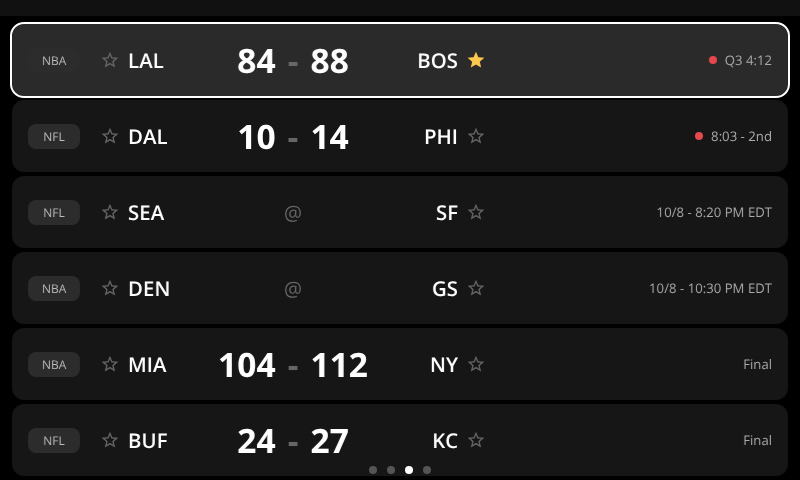
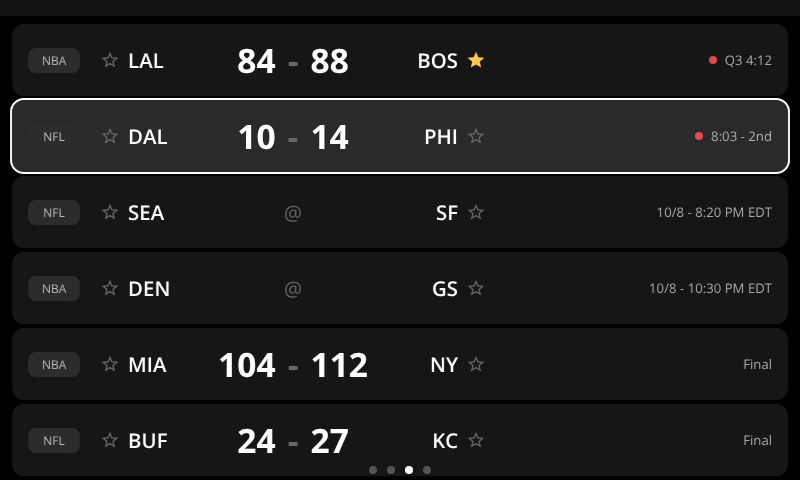
fix(client): dial ignores input under the Menu and follows reordered rows
Reviewer findings: Enter or a wheel turn while the Menu is open also
toggled the highlighted game, and the dial highlight stayed on an index
after a favorite reordered the list. useListNav now ignores input while
the app is blurred and can follow rows by key. Also: upper-case ESPN
abbreviations so team keys validate, keep the pending map stable across
unrelated pushes, and test the feed registry decorator.

Claude-Session: https://claude.ai/code/session_01Pw9chw57BBpXb95BjANYMP

Changed region(s): [[0.0, 0.1875, 1.0, 0.375], [0.0, 0.0312, 1.0, 0.0625]]

diff --git a/client/src/hooks/useListNav.ts b/client/src/hooks/useListNav.ts
@@ -1,27 +1,61 @@
-import { useEffect, useRef, useState } from 'react'
+import { useContext, useEffect, useRef, useState } from 'react'
+
+import { AppBlurContext } from '@/contexts/AppBlurContext.tsx'
 
 const WHEEL_THRESHOLD = 40
 
 // Dial turn moves a highlight, dial press activates it. Only listens while
-// the tab is active.
+// the tab is active and no overlay (e.g. the Menu) has blurred the app.
+// Pass `keys` (one per row) to keep the highlight on the same row when the
+// list reorders.
 export function useListNav(
   count: number,
   active: boolean,
-  onActivate?: (index: number) => void
+  onActivate?: (index: number) => void,
+  keys?: string[]
 ) {
   const [index, setIndex] = useState(0)
   const accumulated = useRef(0)
   const activateRef = useRef(onActivate)
   activateRef.current = onActivate
 
+  const { blurred } = useContext(AppBlurContext)
+  const blurredRef = useRef(blurred)
+  blurredRef.current = blurred
+
+  const keysRef = useRef(keys)
+  keysRef.current = keys
+  const highlightedKey = useRef<string | null>(null)
+  const keysSignature = keys?.join('\n')
+
   useEffect(() => {
     if (index > 0 && index >= count) setIndex(Math.max(0, count - 1))
   }, [count, index])
+
+  // The user moved the highlight: remember which row it is on.
+  useEffect(() => {
+    highlightedKey.current = keysRef.current?.[index] ?? null
+  }, [index])
+
+  // The rows changed: follow the highlighted row to its new position.
+  useEffect(() => {
+    const current = keysRef.current
+    if (!current) return
+    if (highlightedKey.current === null) {
+      highlightedKey.current = current[index] ?? null
+      return
+    }
+    const moved = current.indexOf(highlightedKey.current)
+    if (moved >= 0 && moved !== index) setIndex(moved)
+    // Only re-run when the row order changes, not when index does.
+    // eslint-disable-next-line react-hooks/exhaustive-deps
+  }, [keysSignature])
 
   useEffect(() => {
     if (!active) return
 
     const wheel = (e: WheelEvent) => {
+      if (blurredRef.current) return
       accumulated.current += e.deltaX || e.deltaY
       if (Math.abs(accumulated.current) < WHEEL_THRESHOLD) return
       const step = accumulated.current > 0 ? 1 : -1
@@ -32,6 +66,7 @@ export function useListNav(
     }
 
     const key = (e: KeyboardEvent) => {
+      if (blurredRef.current) return
       if (e.key === 'Enter') activateRef.current?.(index)
     }
 

diff --git a/src/main/lib/feeds/registry.test.ts b/src/main/lib/feeds/registry.test.ts
@@ -1,0 +1,62 @@
+import { afterEach, describe, expect, it } from 'vitest'
+
+import { Feed } from './Feed.js'
+import {
+  decoratePayload,
+  getFeedPayload,
+  registerFeed,
+  unregisterAll
+} from './registry.js'
+
+function feed(items: number[]) {
+  return new Feed<unknown>(
+    { key: 'sports', fetch: async () => items, interval: () => 60_000 },
+    {
+      now: () => 0,
+      formatTime: () => '',
+      loadCache: () => ({ items, fetchedAt: 0 }),
+      saveCache: () => {},
+      publish: () => {}
+    }
+  )
+}
+
+describe('feed registry', () => {
+  afterEach(() => unregisterAll())
+
+  it('returns null for a feed that is not running', () => {
+    expect(getFeedPayload('sports')).toBeNull()
+  })
+
+  it('returns the plain payload without a decorator', () => {
+    registerFeed('todo', feed([1, 2]))
+    expect(getFeedPayload('todo')).toMatchObject({ items: [1, 2] })
+  })
+
+  it('applies the decorator to served and published payloads', () => {
+    registerFeed('sports', feed([3, 1, 2]), p => ({
+      ...p,
+      items: [...(p.items as number[])].sort(),
+      extra: true
+    }))
+    expect(getFeedPayload('sports')).toMatchObject({
+      items: [1, 2, 3],
+      extra: true
+    })
+    const published = decoratePayload('sports', {
+      items: [9, 8],
+      fetchedAt: 1,
+      fetchedAtLabel: '',
+      stale: false,
+      error: null
+    })
+    expect(published).toMatchObject({ items: [8, 9], extra: true })
+  })
+
+  it('drops decorators on unregister', () => {
+    registerFeed('sports', feed([2, 1]), p => ({ ...p, extra: true }))
+    unregisterAll()
+    registerFeed('sports', feed([2, 1]))
+    expect(getFeedPayload('sports')).not.toHaveProperty('extra')
+  })
+})

diff --git a/client/src/components/tabs/Sports/Sports.tsx b/client/src/components/tabs/Sports/Sports.tsx
@@ -31,7 +31,9 @@ const Sports: React.FC<{ active: boolean }> = ({ active }) => {
       for (const key of Object.keys(p)) {
         if (serverFavorites.includes(key) !== p[key]) next[key] = p[key]
       }
-      return next
+      // Keep the same object when nothing changed, so the timeout below is
+      // not re-armed by unrelated pushes.
+      return Object.keys(next).length === Object.keys(p).length ? p : next
     })
   }, [serverFavorites])
 
@@ -68,10 +70,16 @@ const Sports: React.FC<{ active: boolean }> = ({ active }) => {
     else keys.forEach(k => send(k, true))
   }
 
-  const highlighted = useListNav(feed.items.length, active, i => {
-    const game = feed.items[i]
-    if (game) toggleGame(game)
-  })
+  const gameIds = useMemo(() => feed.items.map(g => g.id), [feed.items])
+  const highlighted = useListNav(
+    feed.items.length,
+    active,
+    i => {
+      const game = feed.items[i]
+      if (game) toggleGame(game)
+    },
+    gameIds
+  )
 
   return (
     <div className={styles.tab} data-scroll-container>

diff --git a/src/main/lib/sports/logic.test.ts b/src/main/lib/sports/logic.test.ts
@@ -92,6 +92,18 @@ describe('normalize', () => {
     expect(normalize('nba', json)).toHaveLength(3)
   })
 
+  it('upper-cases team abbreviations so keys stay valid', () => {
+    const json = fixture('nba-scoreboard.json') as {
+      events: {
+        competitions: { competitors: { team: { abbreviation: string } }[] }[]
+      }[]
+    }
+    json.events[0].competitions[0].competitors[0].team.abbreviation = 'bos'
+    const [first] = normalize('nba', json)
+    expect(first.home.key).toBe('nba:BOS')
+    expect(isTeamKey(first.home.key)).toBe(true)
+  })
+
   it('throws when the response has no events array', () => {
     expect(() => normalize('nfl', { error: 'x' })).toThrow()
     expect(() => normalize('nfl', null)).toThrow()

diff --git a/src/main/lib/sports/logic.ts b/src/main/lib/sports/logic.ts
@@ -45,7 +45,7 @@ function toTeam(
   c: EspnCompetitor,
   state: Game['state']
 ): Team | null {
-  const abbr = c.team?.abbreviation
+  const abbr = c.team?.abbreviation?.toUpperCase()
   if (!abbr) return null
 
   const raw = Number(c.score)
